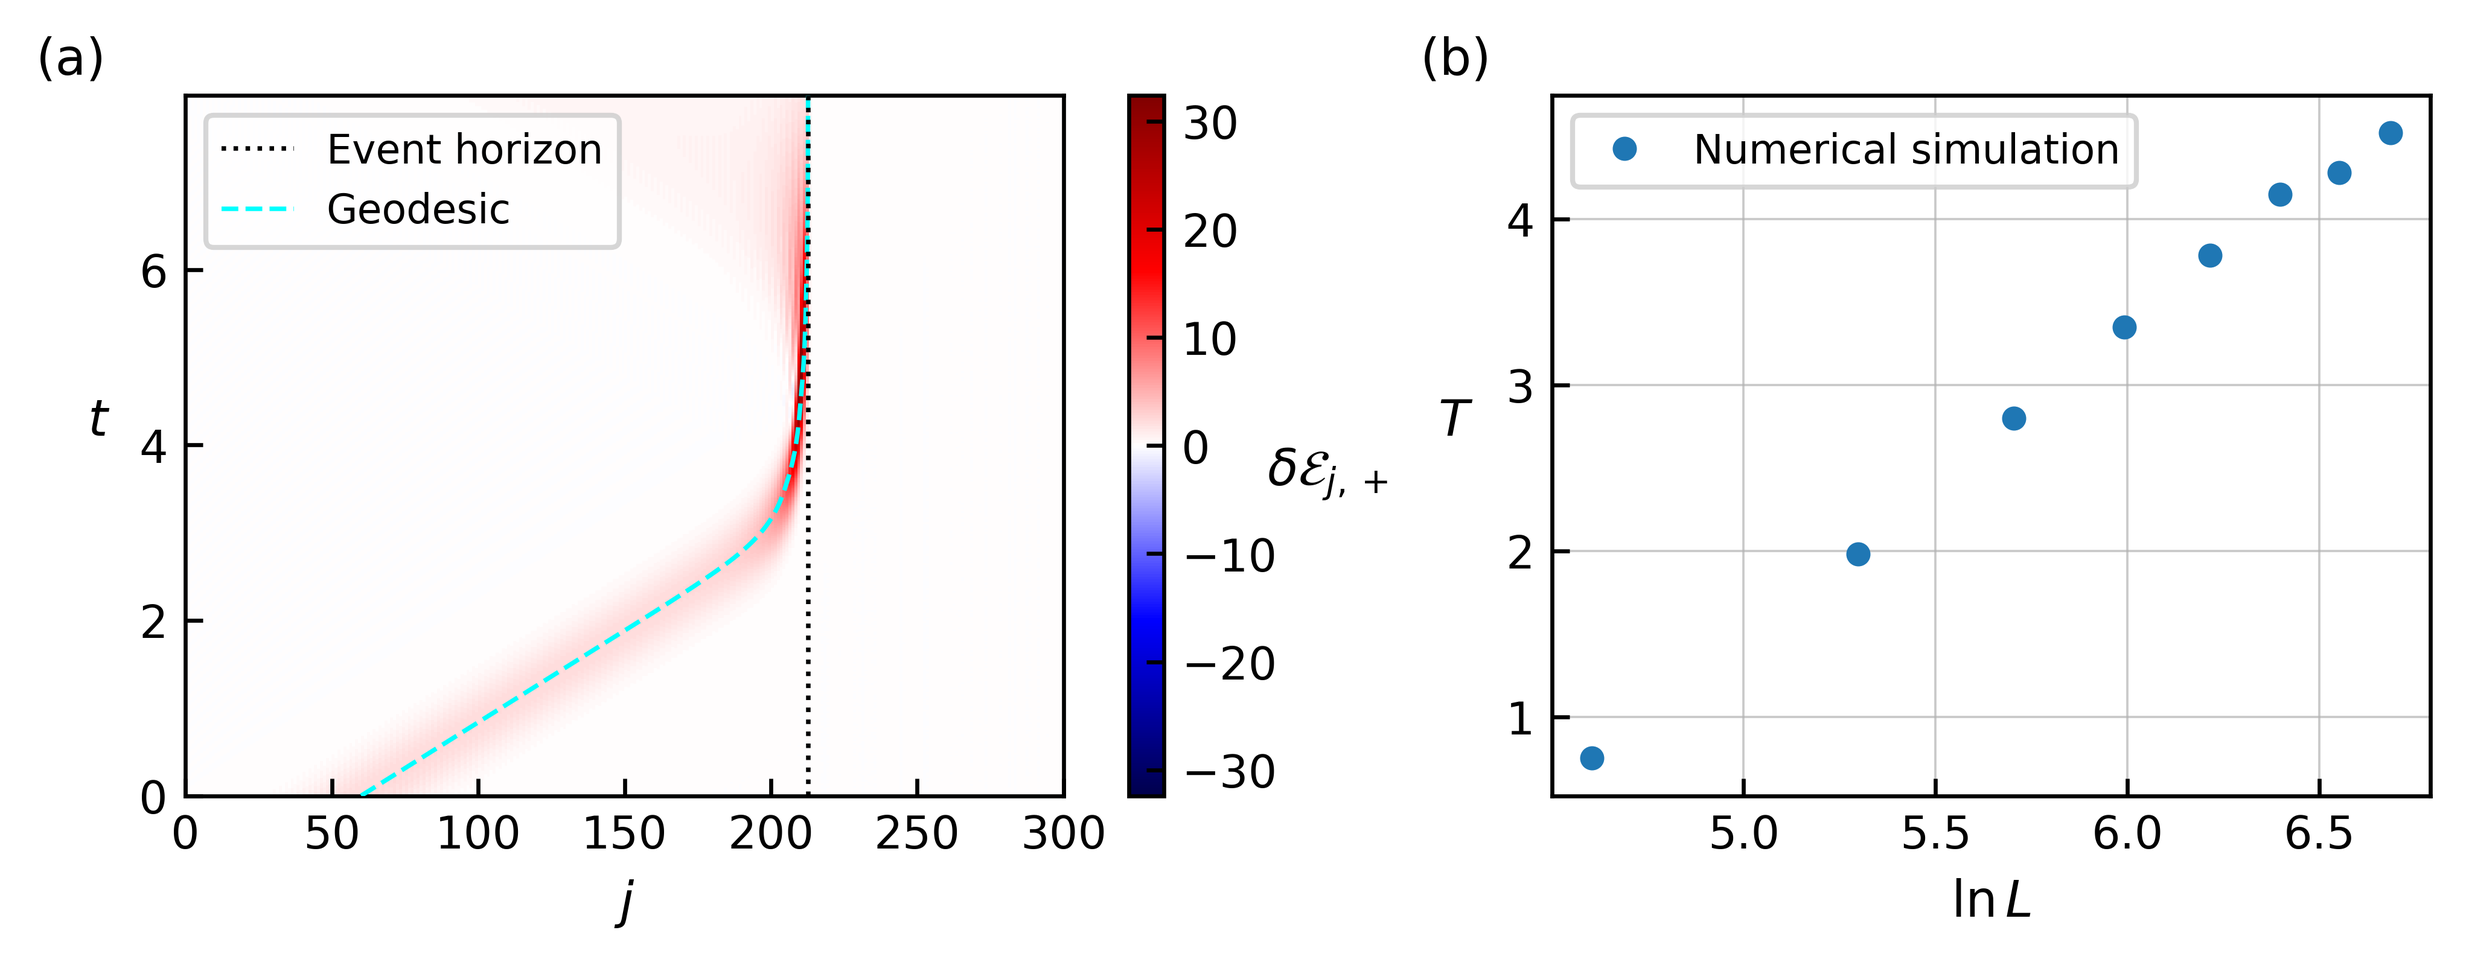
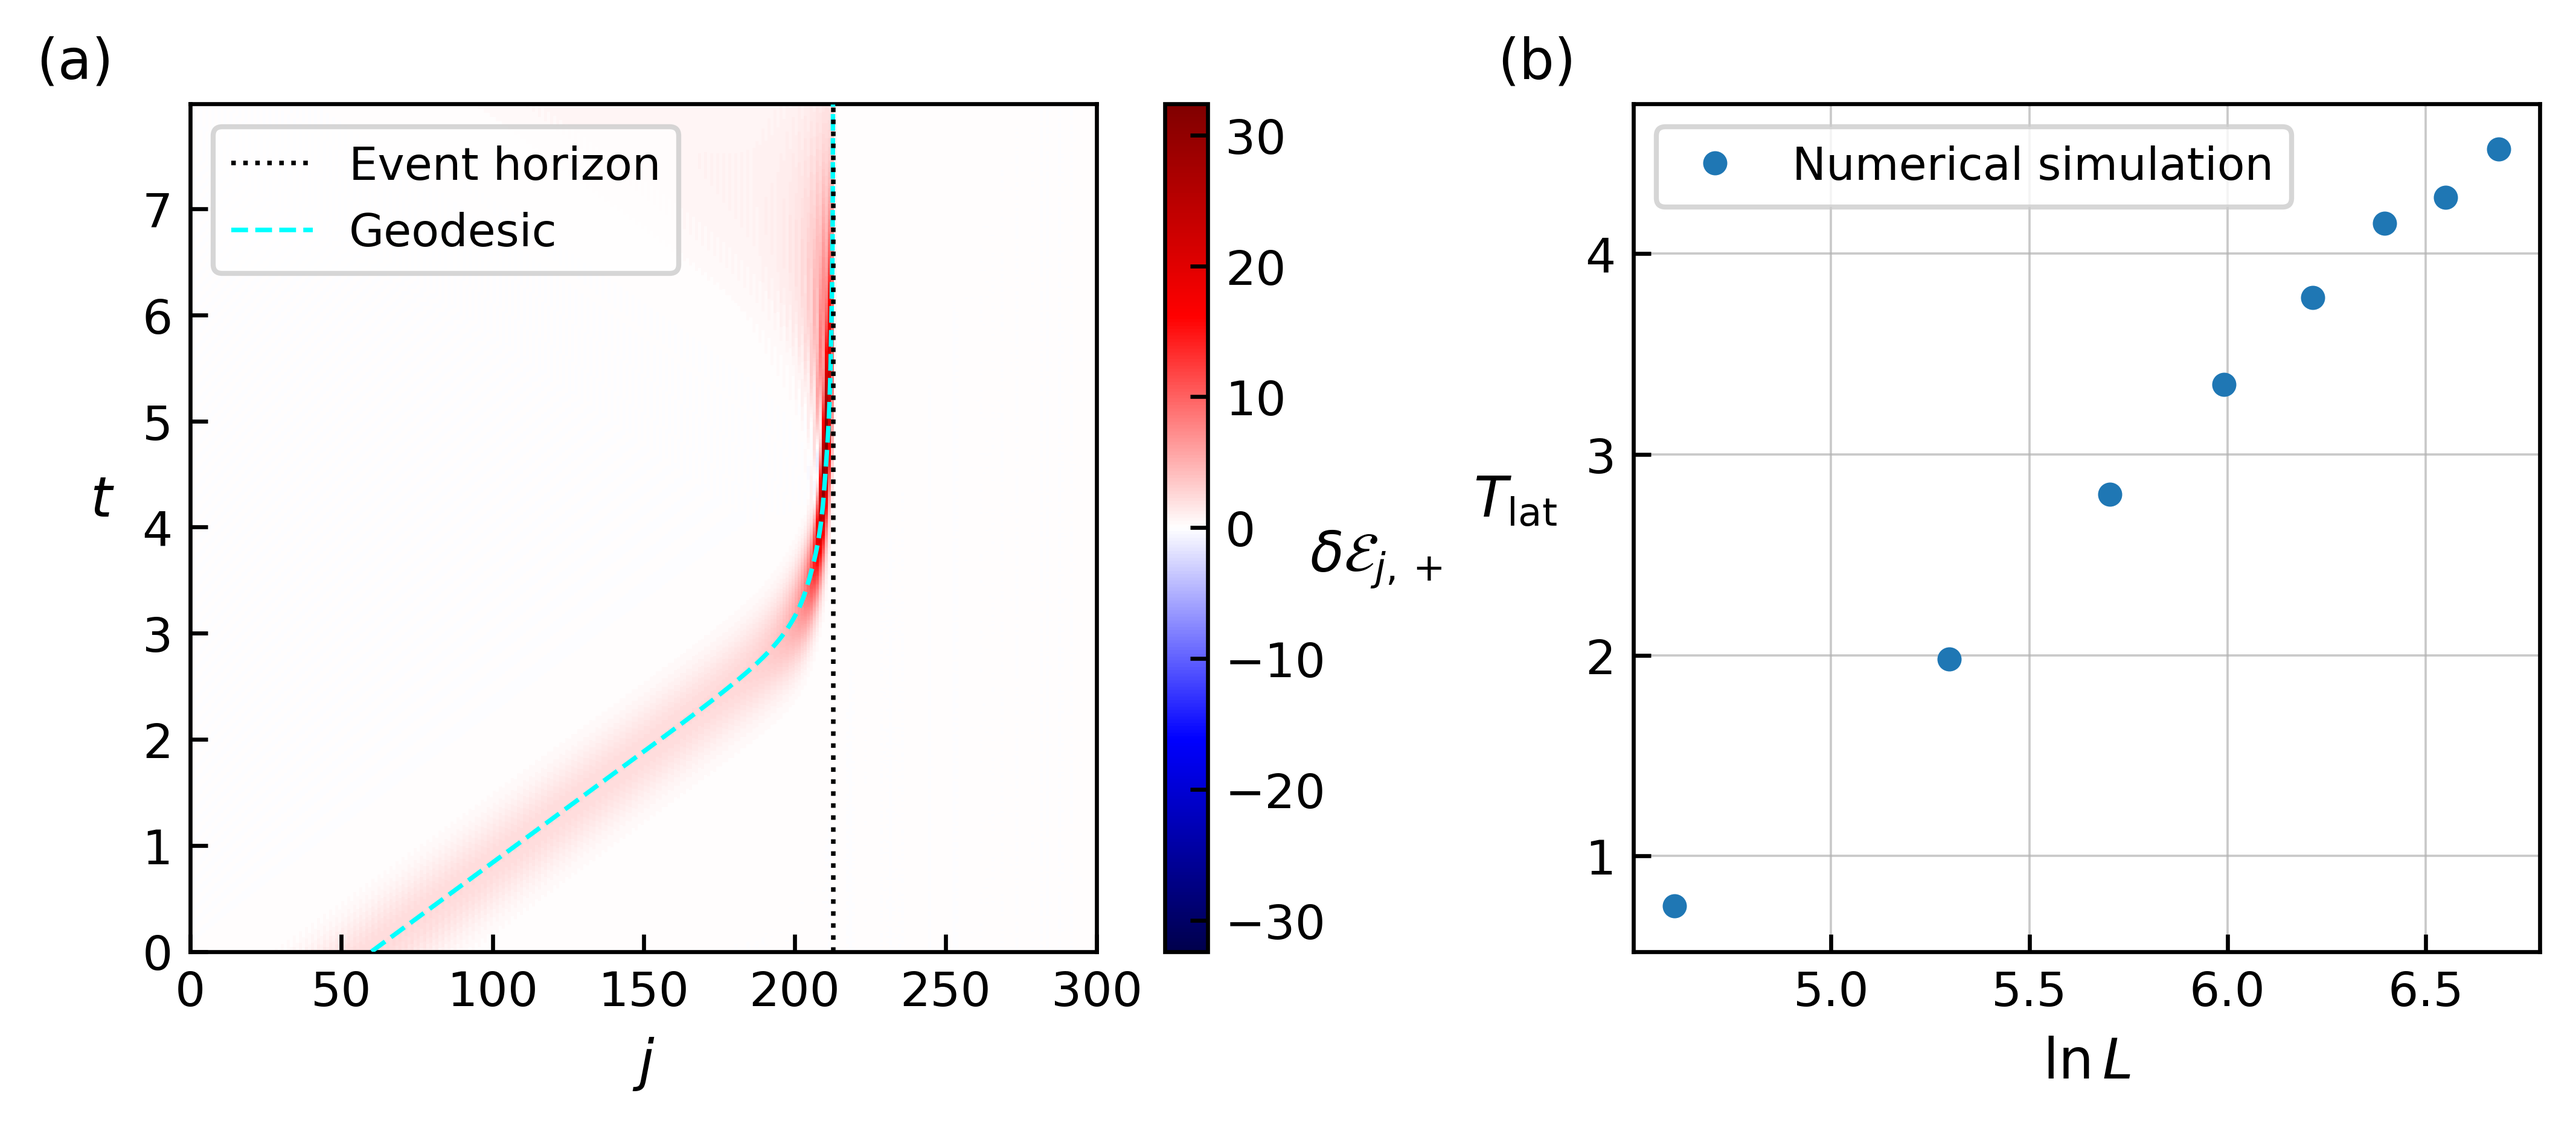
paper: enlarge and rearrange figures 4 through 7

diff --git a/paper/main_revised.tex b/paper/main_revised.tex
@@ -971,8 +971,8 @@ Fig.~\ref{fig:doubler_fft}(a) shows the low-energy doubler modes that appear for
 On the other hand, the oscillations in Figs.~\ref{fig:bh_p1}(c,d) are already present from the initial time.
 Since these wave packets are initialized inside the black hole, they already have overlap with the doubler branch indicated in Fig.~\ref{fig:doubler_fft}(a).
 Although the $p=0$ model also contains a doubler branch near $k=\pi$, the FFT analysis shows a larger doubler-mode peak for $p=1$ in the black-hole interior, explaining the more pronounced oscillations in Figs.~\ref{fig:bh_p1}(c,d).
-\begin{figure}[tbp]
-\includegraphics[width=\linewidth]{figure/doubler_fft.png}
+\begin{figure*}[tbp]
+\includegraphics[width=\textwidth]{figure/doubler_fft.png}
 \caption{Excitation of doubler modes in the oscillatory wave-packet dynamics for $p=1$.
 (a) Local dispersion relation at $\beta=1.2$, representative of the black-hole interior.
 The red circles mark the low-energy crossings at $k=\pm k_d$, corresponding to the doubler modes, where $k_d\simeq1.171$.
@@ -981,7 +981,7 @@ The black dotted line indicates the doubler-mode wave number $k_d$ predicted fro
 The peak near $k=0$ corresponds to the low-momentum quasiparticle component, while the secondary peak grows near $k_d$ as the packet enters the black-hole interior.
 This agreement supports the interpretation that the oscillatory behavior in Fig.~\ref{fig:bh_p1} originates from the excitation of doubler modes.}
 \label{fig:doubler_fft}
-\end{figure}
+\end{figure*}
 
 We next extract the surface gravity of the effective horizon from the near-horizon wave-packet dynamics.
 For a left-moving wave packet localized in the exterior region near the event horizon, the linearized near-horizon null-geodesic equation gives the approximate growth of the standard deviation
@@ -995,11 +995,11 @@ It implies that the surface gravity can be read off from the exponential growth 
 In practice, we fit the numerical data to $a(e^{\kappa_{\rm fit}t}-1)$, where $a$ is a prefactor and $\kappa_{\rm fit}$ is the fitted growth rate.
 
 For the surface-gravity extraction (Fig.~\ref{fig:sg}), we use $A=1$, $B=1$, $C=1$, $x_0=\pi$ (so $x_h=x_0$, $\kappa=|\beta'(x_h)|=1$, and $j_h=0.5L$), $j_0=245$, $\sigma=0.003L$, and fit the data over the time interval $t\in[0,1]$.
-\begin{figure}[tbp]
-\includegraphics[width=\linewidth]{figure/sg.png}
+\begin{figure*}[tbp]
+\includegraphics[width=\textwidth]{figure/sg.png}
 \caption{Extraction of surface gravity from wave-packet broadening ($L=500$, $A=B=C=1$, $x_0=\ell /2$, $j_0=245$, $\sigma=0.003L$, with the fit performed over $t\in[0,1]$). Blue dots show the numerical simulation results, and red curves show the analytical near-horizon scaling $a(e^{\kappa t}-1)$ with $\kappa=1$; the prefactor $a$ fixes the vertical scale. The fitted growth rates are obtained separately from $a(e^{\kappa_{\rm fit}t}-1)$. (a) Result for $p=0$, with $|\kappa_{\rm fit}-\kappa|/\kappa\approx3.3\%$. (b) Result for $p=1$, with $|\kappa_{\rm fit}-\kappa|/\kappa\approx4.9\%$ due to simultaneous wave packet dispersion. These percentages quantify the error in the fitted surface gravity, not the pointwise deviation of the red analytical curves. The vertical axis $\delta\sigma\equiv\sigma(t)-\sigma(0)$ denotes the change in the wave-packet standard deviation.}
 \label{fig:sg}
-\end{figure}
+\end{figure*}
 Fig.~\ref{fig:sg} compares the numerical data with the analytical near-horizon form for $\kappa=1$, while the quoted $\kappa_{\rm fit}$ values are obtained by allowing the exponential growth rate to vary.
 As shown in Fig.~\ref{fig:sg}(a), for $p=0$, the fitted growth rate agrees with the analytical surface gravity $\kappa=1$ within a relative error of approximately 3.3\%.
 Small deviations from the analytical near-horizon curve at later times can be attributed to the breakdown of the approximation in Eq.~\eqref{eq:sigma_kappa} as the wave packet moves away from the event horizon.
@@ -1011,11 +1011,11 @@ This discrepancy can be attributed to deformation of the wave packet as it broad
 \subsection{White Hole}
 In this section, we present the results of numerical simulations of particle dynamics in a white-hole spacetime. We consider the case in which a wave packet is incident from the exterior toward the interior of the white hole. We also discuss the finite-size effects that arise in this setup.
 For the white-hole dynamics, we use $A=C=-0.6$, $B=3$, $x_0=2\ell/3$ (white-hole horizon at $j_h\approx213$ for $L=300$), with $j_0=0.2L$ and $\sigma=0.05L$.
-\begin{figure}[tbp]
-\includegraphics[width=\linewidth]{figure/WH_p=0.png}
+\begin{figure*}[tbp]
+\includegraphics[width=\textwidth]{figure/WH_p=0.png}
 \caption{Wave packet dynamics in the white-hole geometry for $p=0$. (a) Space-time diagram of the vacuum-subtracted energy density $\delta\mathcal{E}_{j,+}$ [Eq.~\eqref{eq:branch_resolved_energy}] for $L=300$, $j_0=0.2L$, and $\sigma=0.05L$, with $\beta$ profile parameters $A=C=-0.6$, $B=3$, and $x_0=2\ell/3$ (white-hole horizon at $j_h\approx213$). The wave packet is compressed toward the white-hole horizon (black dotted line) and eventually reflected due to finite lattice resolution. (b) Lattice stagnation time $T_{\mathrm{lat}}$ versus $\ln L$ for various system sizes, using $A=C=-0.6$, $B=3$, $x_0=2\ell/3$, $j_0=0.2L$, and $\sigma=0.05L$. Blue dots show numerical simulation results; their approximately linear dependence on $\ln L$ is consistent with the logarithmic scaling of Eq.~\eqref{eq:T_logL}.}
 \label{fig:wh_p0}
-\end{figure}
+\end{figure*}
 For $p = 0$, as shown in Fig.~\ref{fig:wh_p0}, the wave packet is initially compressed at the white-hole horizon, yielding behavior consistent with the ideal analytical expectation. However, after a certain time, the wave packet collapses and is reflected. This behavior is attributed to a finite-size effect arising when the wave-packet standard deviation becomes smaller than the lattice spacing.
 For the stagnation-time scaling in Fig.~\ref{fig:wh_p0}(b), we use the same profile parameters, $A=C=-0.6$, $B=3$, and $x_0=2\ell/3$, with $j_0=0.2L$ and $\sigma=0.05L$.
 Near the white-hole horizon, the same linearized null-geodesic argument gives an exponential compression of the wave-packet standard deviation, $\sigma(t)\propto\sigma_0 e^{-\kappa t}$.
@@ -1037,11 +1037,11 @@ The approximately linear dependence of the data on $\ln L$ in Fig.~\ref{fig:wh_p
 This comparison tests only the logarithmic dependence, not its coefficient: $T_{\mathrm{lat}}$ is defined operationally from the nonlinear lattice collapse and reflection, so its slope need not equal the continuum value $1/\kappa$.
 Therefore, we conclude that the reflection of the wave packet is caused by a finite-size effect associated with its standard deviation becoming smaller than the lattice spacing.
 
-\begin{figure}[tbp]
-\includegraphics[width=\linewidth]{figure/WH_p=1.png}
+\begin{figure*}[tbp]
+\includegraphics[width=\textwidth]{figure/WH_p=1.png}
 \caption{White-hole dynamics for $p=1$ ($L=300$, $j_0=0.2L$, $\sigma=0.05L$, with the same $\beta$ profile as Fig.~\ref{fig:wh_p0}(a), $A=C=-0.6$, $B=3$, $x_0=2\ell/3$, and $j_h\approx213$). (a) Space-time diagram of the vacuum-subtracted energy density $\delta\mathcal{E}_{j,+}$. (b) Space-time diagram of $\delta\mathcal{E}_{j,-}$. (c) Space-time diagram of the mixed contribution $\delta\mathcal{E}_{j,\mathrm{int}}$ built from $\mathcal{H}_j^{\mathrm{int}}$. Unlike the $p=0$ case, the coupling between the right- and left-moving components allows partial transmission across the white-hole horizon (black dotted line).}
 \label{fig:wh_p1}
-\end{figure}
+\end{figure*}
 For $p=1$, the wave-packet dynamics differs from the $p=0$ case.
 As shown in Fig.~\ref{fig:wh_p1}, part of the wave packet crosses the white-hole horizon instead of being simply reflected.
 This behavior is absent for $p=0$, indicating that the coupling between the right- and left-moving modes plays an important role.

diff --git a/paper_figures/reproduce_panel.py b/paper_figures/reproduce_panel.py
@@ -424,7 +424,7 @@ def draw_panel(fig, ax, spec: PanelSpec):
     ax.set_ylim(0, t_max)
     ax.set_xlabel(r"$j$")
     ax.set_ylabel(r"$t$", rotation=0, labelpad=8)
-    ax.text(-0.17, 1.03, f"({spec.tag})", transform=ax.transAxes, fontsize=10)
+    ax.text(-0.12, 1.03, f"({spec.tag})", transform=ax.transAxes, fontsize=11)
 
     cbar = fig.colorbar(im, ax=ax, pad=0.025)
     cbar.set_label(spec.label, rotation=0, labelpad=10)
@@ -464,13 +464,33 @@ def plot_composite(specs: list[PanelSpec]) -> Path | None:
 
     configure_matplotlib()
     figure_id = specs[0].figure_id
-    fig, axes = plt.subplots(
-        1,
-        len(specs),
-        figsize=(3.05 * len(specs), 2.55),
-        constrained_layout=True,
-    )
-    axes = np.atleast_1d(axes)
+    if figure_id == "FIG7":
+        fig = plt.figure(figsize=(7.0, 5.8))
+        grid = fig.add_gridspec(
+            2,
+            4,
+            left=0.08,
+            right=0.95,
+            bottom=0.08,
+            top=0.96,
+            wspace=0.75,
+            hspace=0.62,
+        )
+        axes = np.array(
+            [
+                fig.add_subplot(grid[0, 0:2]),
+                fig.add_subplot(grid[0, 2:4]),
+                fig.add_subplot(grid[1, 1:3]),
+            ]
+        )
+    else:
+        fig, axes = plt.subplots(
+            1,
+            len(specs),
+            figsize=(3.05 * len(specs), 2.55),
+            constrained_layout=True,
+        )
+        axes = np.atleast_1d(axes)
     for ax, spec in zip(axes, specs):
         draw_panel(fig, ax, spec)
 
@@ -499,7 +519,7 @@ def plot_fig6_composite() -> Path:
         from make_fig6b_scaling import draw_scaling_panel
 
     configure_matplotlib()
-    fig, axes = plt.subplots(1, 2, figsize=(6.7, 2.55), constrained_layout=True)
+    fig, axes = plt.subplots(1, 2, figsize=(7.0, 3.0), constrained_layout=True)
     draw_panel(fig, axes[0], PANEL_SPECS["fig6a"])
     draw_scaling_panel(axes[1])
 

diff --git a/paper_figures/make_surface_gravity.py b/paper_figures/make_surface_gravity.py
@@ -98,7 +98,7 @@ def recompute_surface_gravity_data() -> None:
         print(f"[sg] wrote {dst}")
 
 
-def _panel(ax, sigma_path, eps, ell):
+def _panel(ax, sigma_path, eps, ell, panel_tag):
     data = np.loadtxt(sigma_path)
     times = data[:, 0]
     sig = data[:, 1] * eps
@@ -110,9 +110,10 @@ def _panel(ax, sigma_path, eps, ell):
     ax.plot(times, sig * ell, "o", color="blue", ms=3, label="Numerical simulation")
     ax.plot(t_fine, ideal * ell, "-", color="red", lw=2.5, label="Analytical prediction")
     ax.set_xlabel(r"$t$")
-    ax.set_ylabel(r"$\delta\sigma$", rotation=0, labelpad=12)
+    ax.set_ylabel(r"$\delta\sigma_{\mathcal{E}}(t)$", rotation=0, labelpad=22)
     ax.grid(True, alpha=0.3)
-    ax.legend(fontsize=8, loc="upper left")
+    ax.legend(loc="upper left")
+    ax.text(-0.13, 1.04, panel_tag, transform=ax.transAxes, fontsize=11)
     return kappa
 
 
@@ -137,14 +138,14 @@ def main(argv: list[str] | None = None):
     p0 = PAPER_DATA / "H_m_sigmas_p0.txt"
     p1 = PAPER_DATA / "H_m_sigmas_p1.txt"
 
-    fig, axes = plt.subplots(1, 2, figsize=(9, 3.6), constrained_layout=True)
+    fig, axes = plt.subplots(1, 2, figsize=(7.0, 3.0), constrained_layout=True)
     if p0.exists():
-        k0 = _panel(axes[0], p0, EPS_DEFAULT, ELL_DEFAULT)
+        k0 = _panel(axes[0], p0, EPS_DEFAULT, ELL_DEFAULT, "(a)")
         print(f"[sg] p=0 kappa_fit = {k0:.4f}")
     else:
         axes[0].set_title("(a) p=0 (data missing)")
     if p1.exists():
-        k1 = _panel(axes[1], p1, EPS_DEFAULT, ELL_DEFAULT)
+        k1 = _panel(axes[1], p1, EPS_DEFAULT, ELL_DEFAULT, "(b)")
         print(f"[sg] p=1 kappa_fit = {k1:.4f}")
     else:
         axes[1].set_title("(b) p=1 (data missing)")

diff --git a/paper_figures/make_fig6b_scaling.py b/paper_figures/make_fig6b_scaling.py
@@ -58,10 +58,10 @@ def draw_scaling_panel(ax, *, max_l: float | None = DEFAULT_MAX_L):
 
     ax.plot(x, times, "o", ms=3.8, color="#1f77b4", label="Numerical simulation")
     ax.set_xlabel(r"$\ln L$")
-    ax.set_ylabel(r"$T$", rotation=0, labelpad=10)
+    ax.set_ylabel(r"$T_{\mathrm{lat}}$", rotation=0, labelpad=14)
     ax.grid(True, color="0.70", lw=0.45, alpha=0.7)
     ax.legend(loc="upper left", frameon=True, handlelength=1.8, borderpad=0.4)
-    ax.text(-0.15, 1.03, "(b)", transform=ax.transAxes, fontsize=10)
+    ax.text(-0.15, 1.03, "(b)", transform=ax.transAxes, fontsize=11)
 
     y_span = max(float(times.max() - times.min()), 1.0)
     ax.set_xlim(float(x.min() - 0.05 * (x.max() - x.min())), float(x.max() + 0.05 * (x.max() - x.min())))

diff --git a/paper_figures/style.py b/paper_figures/style.py
@@ -15,12 +15,12 @@ def configure_figure5_style() -> None:
             "font.family": "sans-serif",
             "font.sans-serif": ["DejaVu Sans", "Arial", "Helvetica"],
             "mathtext.fontset": "dejavusans",
-            "font.size": 10,
-            "axes.labelsize": 10,
-            "axes.titlesize": 10,
-            "xtick.labelsize": 9,
-            "ytick.labelsize": 9,
-            "legend.fontsize": 8,
+            "font.size": 10.5,
+            "axes.labelsize": 11,
+            "axes.titlesize": 11,
+            "xtick.labelsize": 9.5,
+            "ytick.labelsize": 9.5,
+            "legend.fontsize": 9,
             "axes.linewidth": 0.8,
             "xtick.direction": "in",
             "ytick.direction": "in",

diff --git a/paper_figures/make_doubler_fft.py b/paper_figures/make_doubler_fft.py
@@ -126,7 +126,7 @@ def main() -> None:
     import matplotlib.pyplot as plt
 
     configure_figure5_style()
-    fig, axes = plt.subplots(1, 2, figsize=(7.0, 2.75), constrained_layout=True)
+    fig, axes = plt.subplots(1, 2, figsize=(7.0, 3.0), constrained_layout=True)
     kd = draw_dispersion_panel(axes[0])
     draw_fft_panel(axes[1], kd)
 
